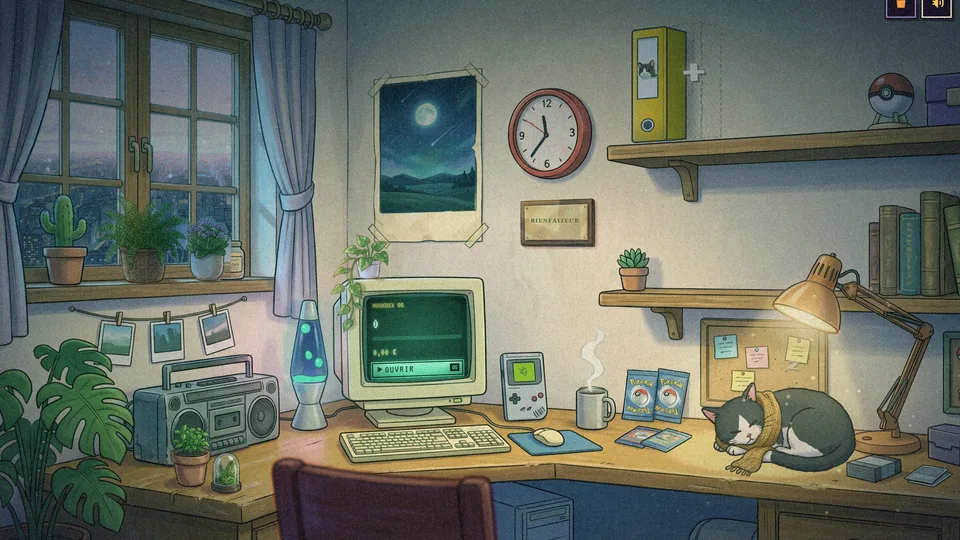
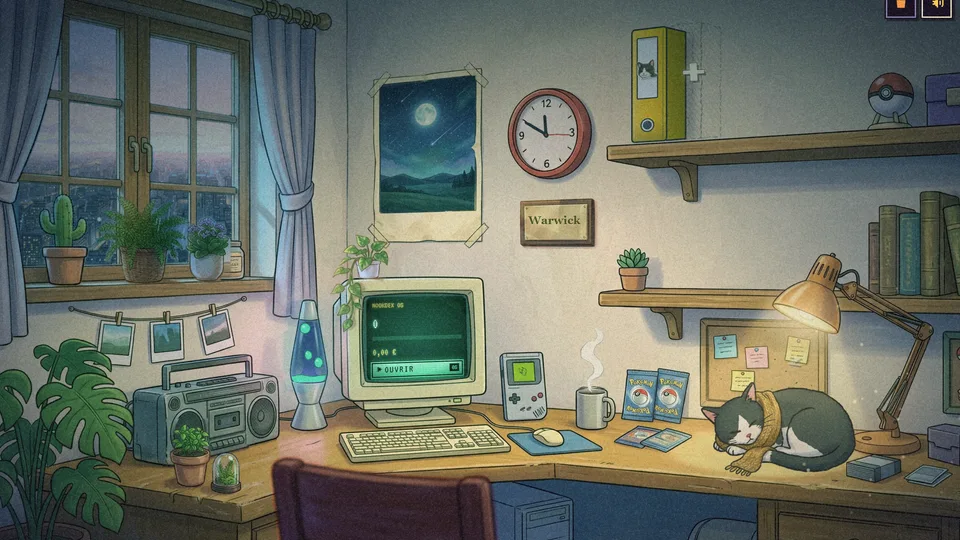
Soutien: engraved plaque as its own item (nickname on it, 16-char nicknames), pack of six; gold scrollbar in the shop

diff --git a/src/components/room/PaintedRoom.tsx b/src/components/room/PaintedRoom.tsx
@@ -8,7 +8,7 @@ import { MAX_BINDERS, SHELF_LEAD, boxOf, spineName, shelfPlace, pocketsOf, shelf
 import { catalogSet, loadSet, useSets } from "@/lib/catalog";
 import { copiesTotals, formatMoney, setStats } from "@/lib/price";
 import { SCENE, quadMatrix, sceneImg } from "@/lib/scene";
-import { NAME_PARTS, OS_NAME } from "@/lib/site";
+import { NAME_PARTS, NICKNAME_MAX, OS_NAME } from "@/lib/site";
 import { radioBed, setAmbientMood, sfx, startAmbient, stopAmbient } from "@/lib/sound";
 import { PLAQUE, SUPPORT_BUNDLE, useLook, usePatron, useSkins, type LavaTheme } from "@/lib/shop";
 import { useAskUp, useWantAsk } from "@/lib/calm";
@@ -268,6 +268,8 @@ function PaintedRoomView({
   // the plaque shows to whoever bought the pack, and while it is tried on from the shop
   const tryingPack = useSkins((s) => s.trying === SUPPORT_BUNDLE);
   const patron = usePatron() || tryingPack;
+  // the plaque's engraving: the player's nickname (Johan, 2026-11-16), else the word
+  const nickname = useStore((s) => s.profile?.name?.trim() ?? "");
   const skinLava = skin?.lava;
   const lavaThemes = useMemo<LavaTheme[]>(() => (skinLava ? [skinLava, ...LAVA_THEMES] : LAVA_THEMES), [skinLava]);
   const themesRef = useRef(lavaThemes);
@@ -569,20 +571,23 @@ function PaintedRoomView({
             </span>
           ))}
 
-          {/* the Soutien pack's plaque, « Bienfaiteur » engraved on it (Johan, 2026-11-16: the word alone): there whatever is worn */}
-          {patron && PLAQUE && (
+          {/* the engraved plaque (the Soutien collection's, worn like any item): the player's nickname on it */}
+          {skin?.plaque && PLAQUE && (() => {
+            const name = nickname ? (nickname.length > NICKNAME_MAX ? nickname.slice(0, NICKNAME_MAX - 1) + "…" : nickname) : tr("Bienfaiteur", "Benefactor");
+            return (
             <span>
               {PLAQUE.shadow && <span className={styles.skinShadow} style={{ left: PLAQUE.x + PLAQUE.w * 0.08, top: PLAQUE.y + PLAQUE.h - 10, width: PLAQUE.w * 0.84, height: 16 }} aria-hidden />}
               <img className={`${styles.sprite} ${PLAQUE.still ? "" : styles.skinThing}`} src={!daytime && PLAQUE.srcNight ? PLAQUE.srcNight : PLAQUE.src} style={place(PLAQUE)} alt="" draggable={false} />
               <span
                 className={styles.plaqueText}
-                style={{ ...place(PLAQUE.text), fontSize: Math.round(Math.min(PLAQUE.text.h * 0.42, PLAQUE.text.w / 10.5)) }}
+                style={{ ...place(PLAQUE.text), fontSize: Math.round(Math.min(PLAQUE.text.h * 0.5, PLAQUE.text.w / (Math.max(5, name.length) * 0.72))) }}
                 aria-hidden
               >
-                {tr("Bienfaiteur", "Benefactor")}
+                {name}
               </span>
             </span>
-          )}
+            );
+          })()}
 
           {skin?.art.spider && <SkinSpider spider={skin.art.spider} paused={paused} />}
 

diff --git a/src/lib/skins.ts b/src/lib/skins.ts
@@ -42,7 +42,7 @@ export interface SkinArt {
   cat?: { sleep: Placed; awake: Placed };
   /** a spider that drops down its thread from (x, top) to `drop` now and then, and climbs back */
   spider?: { src: string; w: number; h: number; x: number; top: number; drop: number };
-  /** the Soutien pack's Bienfaiteur plaque (shown to whoever bought the pack, whatever is worn): the player's name engraved in `text` */
+  /** the Soutien collection's plaque (its own item, in the pack too): the player's name engraved in `text` */
   plaque?: Placed & { text: Box };
 }
 
@@ -57,7 +57,7 @@ export interface LavaTheme {
 
 export type Rarity = "uncommon" | "rare" | "epic" | "legendary";
 /** where an item goes: one of each worn at a time */
-export type Slot = "sky" | "decor" | "cat" | "lamp" | "radio";
+export type Slot = "sky" | "decor" | "cat" | "lamp" | "radio" | "plaque";
 
 /** A thing sold on its own (src/data/skins.json): a part of a set's art, or a colour, or a tune */
 export interface Item {
@@ -111,6 +111,8 @@ export interface Look {
   vignette?: string;
   particles?: "spooky";
   music?: AmbientMood;
+  /** the plaque on the wall, the player's name engraved (the Soutien collection's) */
+  plaque?: boolean;
 }
 
 const ART = art as Record<string, SkinArt>;
@@ -141,9 +143,9 @@ export const COLLECTIONS = Object.entries(CAT.sets)
   .map(([id, name]) => ({ id, name, items: READY_ITEMS.filter((i) => i.set === id).map((i) => i.id) }));
 
 export const BUNDLES: Bundle[] = CAT.bundles.filter((b) => b.items.every((id) => READY_ITEMS.some((i) => i.id === id)));
-/** The permanent pack that supports the site (Johan, 2026-11-16): bought as a pack, it adds the plaque and the ★ */
+/** The permanent pack that supports the site (Johan, 2026-11-16): bought as a pack, it adds Warwick's poster and the ★ */
 export const SUPPORT_BUNDLE = "soutien";
-/** The Bienfaiteur plaque, once its art is cut (scripts/build-skins) */
+/** The engraved plaque, once its art is cut (scripts/build-skins) */
 export const PLAQUE = ART[SUPPORT_BUNDLE]?.plaque;
 export const ITEMS: Item[] = READY_ITEMS.map((i) => ({ ...i, until: BUNDLES.find((b) => b.items.includes(i.id))?.until }));
 export const ITEM = new Map(ITEMS.map((i) => [i.id, i]));
@@ -173,6 +175,7 @@ export function lookOf(ids: string[]): Look | null {
     if (it.vignette) look.vignette = it.vignette;
     if (it.particles) look.particles = it.particles;
     if (it.music) look.music = it.music;
+    if (it.slot === "plaque") look.plaque = true;
   }
   return any ? look : null;
 }

diff --git a/src/data/changelog.ts b/src/data/changelog.ts
@@ -17,8 +17,8 @@ export const CHANGELOG: Release[] = [
     date: "2026-11-16",
     title: { fr: "La boutique rouvre", en: "The shop is back" },
     items: [
-      { fr: "🛍 Le pack Soutien, toute l'année : plantes, Warwick en écharpe, lampe menthe, radio jazz.", en: "🛍 The Supporter pack, all year round: plants, Warwick in a scarf, a mint lamp, jazz radio." },
-      { fr: "Avec le pack : ta plaque de Bienfaiteur, le poster de Warwick et une ★ sur ta liste.", en: "With the pack: your Benefactor plaque, Warwick's poster and a ★ on your list." },
+      { fr: "🛍 Le pack Soutien, toute l'année : plantes, Warwick en écharpe, ambiance menthe, radio jazz, plaque à ton pseudo.", en: "🛍 The Supporter pack, all year round: plants, Warwick in a scarf, a mint mood, jazz radio, a plaque with your name." },
+      { fr: "Avec le pack : le poster de Warwick et une ★ sur ta liste.", en: "With the pack: Warwick's poster and a ★ on your list." },
       { fr: "Une quête pour tes 10 premières cartes, en bas à gauche.", en: "A quest for your first 10 cards, bottom left." },
     ],
   },

diff --git a/src/components/shelf/Welcome.tsx b/src/components/shelf/Welcome.tsx
@@ -5,7 +5,7 @@ import Link from "next/link";
 import { useEffect, useRef, useState } from "react";
 import { catalogSet, loadSets, neededSets } from "@/lib/catalog";
 import { askPlayers, signIn, signInWithGoogle, useCloud, usePlayers } from "@/lib/cloud";
-import { NAME_PARTS, SITE_NAME } from "@/lib/site";
+import { NAME_PARTS, SITE_NAME, NICKNAME_MAX } from "@/lib/site";
 import { sfx } from "@/lib/sound";
 import { useLang, useT } from "@/lib/lang";
 import { isBackup, useStore } from "@/lib/store";
@@ -287,7 +287,7 @@ export function Welcome({ onPick, onDone, onExplore, onImport, startSet }: Props
                     ref={input}
                     autoFocus
                     value={nickname}
-                    maxLength={20}
+                    maxLength={NICKNAME_MAX}
                     placeholder={t("Sacha", "Ash")}
                     autoComplete="nickname"
                     animate={shake ? { x: [0, -10, 9, -6, 4, 0] } : undefined}

diff --git a/src/components/room/Shop.module.css b/src/components/room/Shop.module.css
@@ -155,6 +155,8 @@
 }
 
 .body {
+  scrollbar-width: thin;
+  scrollbar-color: #ffd35a rgba(255, 255, 255, 0.06);
   flex: 1;
   min-height: 0;
   overflow-y: auto;
@@ -1289,4 +1291,23 @@
   .buyCta:hover::after {
     animation: none;
   }
+}
+
+/* the shop's scrollbar: a gold thumb on a dark track (Safari, older Chrome; the others read scrollbar-color) */
+.body::-webkit-scrollbar,
+.card::-webkit-scrollbar {
+  width: 10px;
+}
+
+.body::-webkit-scrollbar-track,
+.card::-webkit-scrollbar-track {
+  background: rgba(255, 255, 255, 0.06);
+  border-radius: 6px;
+}
+
+.body::-webkit-scrollbar-thumb,
+.card::-webkit-scrollbar-thumb {
+  background: #ffd35a;
+  border: 2px solid #2a2238;
+  border-radius: 6px;
 }

diff --git a/src/lib/shop.ts b/src/lib/shop.ts
@@ -53,7 +53,7 @@ interface SkinState {
   equipped: string[];
   /** items bought (from the server: a bundle counts as its items) */
   owned: string[];
-  /** the Soutien pack bought (the pack itself, not its items one by one): the Bienfaiteur plaque, the poster and the ★ on shared lists */
+  /** the Soutien pack bought (the pack itself, not its items one by one): Warwick's poster and the ★ on shared lists */
   patron: boolean;
   /** an item or a bundle tried on from the shop: shown over what's worn, not kept */
   trying: string | null;

diff --git a/src/lib/site.ts b/src/lib/site.ts
@@ -15,6 +15,8 @@ export const SUPABASE_KEY = process.env.NEXT_PUBLIC_SUPABASE_PUBLISHABLE_KEY || 
 
 /** The name, everywhere on the site (split in two for the two-tone lettering). */
 export const SITE_NAME = "NookDex";
+/** A player's nickname, at most (Johan, 2026-11-16: it's engraved on the Soutien plaque) */
+export const NICKNAME_MAX = 16;
 export const NAME_PARTS = ["Nook", "Dex"] as const;
 export const OS_NAME = `${SITE_NAME.toUpperCase()} OS`;
 export const SITE_DESCRIPTION =

diff --git a/src/components/room/PaintedRoom.module.css b/src/components/room/PaintedRoom.module.css
@@ -1086,10 +1086,6 @@
   font-family: Georgia, "Times New Roman", serif;
   font-weight: bold;
   line-height: 1;
-  letter-spacing: 0.12em;
-  text-transform: uppercase;
-  /* the spacing after the last letter, given back on the left: the word stays centred */
-  padding-left: 0.12em;
   white-space: nowrap;
   color: rgba(70, 42, 12, 0.88);
   text-shadow: 0 1px 0 rgba(255, 236, 170, 0.55);

diff --git a/src/components/room/Shop.tsx b/src/components/room/Shop.tsx
@@ -340,6 +340,7 @@ const SLOTS: { slot: Slot; fr: string; en: string }[] = [
   // the lava lamp brings the whole room's light: what a pack's mood is (Johan, 2026-11-16)
   { slot: "lamp", fr: "Ambiance", en: "Mood" },
   { slot: "radio", fr: "Radio", en: "Radio" },
+  { slot: "plaque", fr: "Plaque", en: "Plaque" },
 ];
 
 /**
